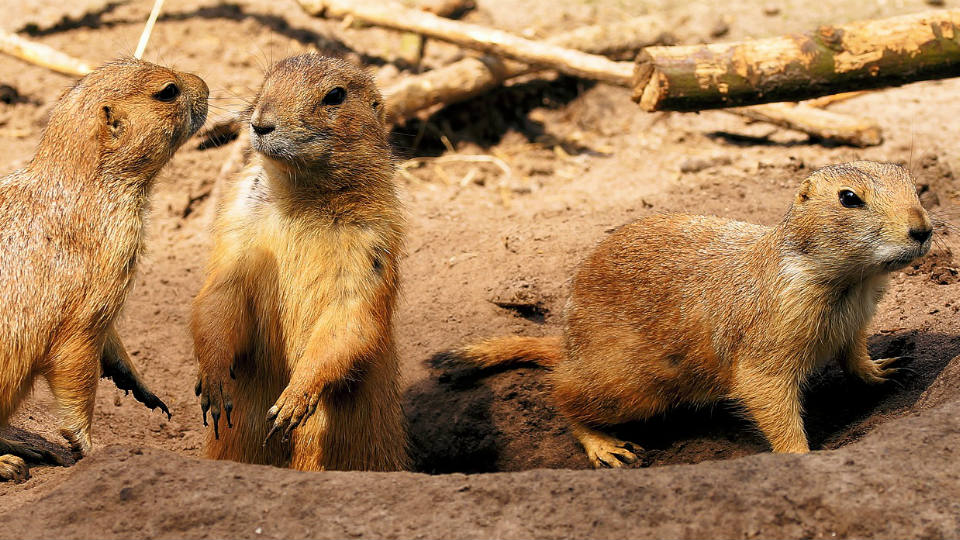
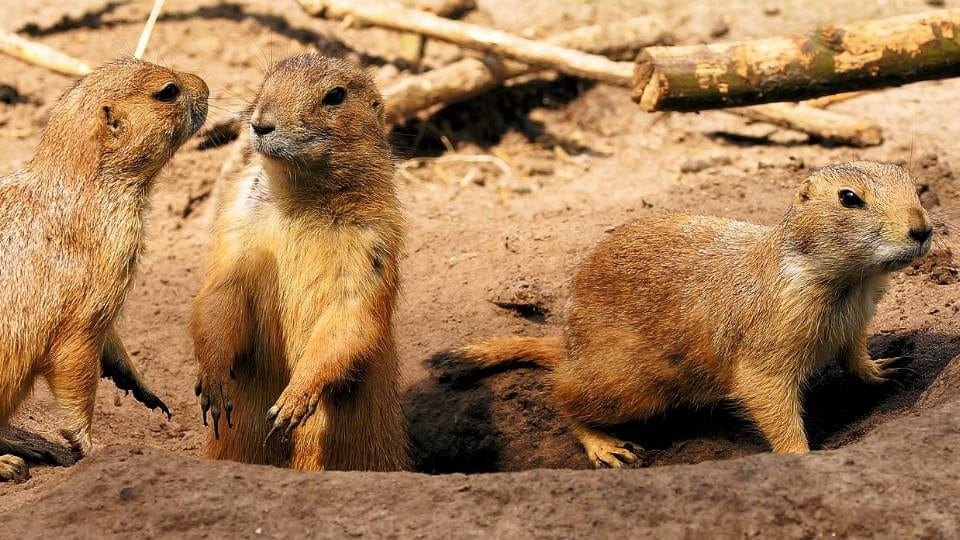
fix typos and optimize images

diff --git a/speaking/index.html b/speaking/index.html
@@ -53,7 +53,7 @@
 <h2 id="Past-Talks"><a href="#Past-Talks" class="headerlink" title="Past Talks"></a>Past Talks</h2><p>🇱🇹 <strong>DevDays Vilnius</strong> <span class="date-info">18/05/2017</span></p>
 <p>“How to Design and Build Chatbots”</p>
 <p>👉 <a href="http://devdays.lt/filip/" target="_blank">Conference site.</a> <a href="https://speakerdeck.com/filipdanic/how-to-build-and-design-chatbots-devdays-vilnius-2017" target="_blank">Slides.</a></p>
-<p>🇷🇸 <strong>Voxxed Days Belgrade 2016</strong> <span class="date-info">03/12/2016</span></p>
+<p>🇷🇸 <strong>Voxxed Days Belgrade 2016</strong> <span class="date-info">30/10/2016</span></p>
 <p>“Complex State Handling in Modern Web Apps”</p>
 <p>👉 <a href="https://belgrade.voxxeddays.com/16/talk/235/" target="_blank">Conference site.</a> <a href="https://speakerdeck.com/filipdanic/complex-state-handling-in-modern-web-apps-filip-danic-at-voxxed-days-belgrade-2016" target="_blank">Slides.</a></p>
 <h2 id="What-You-Should-Know"><a href="#What-You-Should-Know" class="headerlink" title="What You Should Know"></a>What You Should Know</h2><ol>

diff --git a/404/index.html b/404/index.html
@@ -43,7 +43,7 @@
     <div class="col-4"></div>
     <div class="col-4">
       <div class="content">
-        <p>You could let me know about this <a href="https://twitter.com/DanicFilip" target="_blank">via Twitter</a> or  <a href="mailto:filipdanic7@gmail.com">email</a> if it’s not a bother. :)</p>
+        <p>You could let me know about this <a href="https://twitter.com/DanicFilip" target="_blank">via Twitter</a> or email at <a href="mailto:filipdanic7@gmail.com">filipdanic7@gmail.com</a> if it’s not a bother. :)</p>
         <p>Side note: Why did I even add that mailto link? Does anyone click on those anyway?</p>
       </div>
     </div>

diff --git a/index.html b/index.html
@@ -33,7 +33,7 @@
       <div class="content">
         <h1>Filip Danić</h1>
         <p>
-          Hello! 👋 I’m a software engineer 💻, speaker 💬, and beer lover 🍻. Working with React, GraphQL, and experimenting with chatbots. 🤖
+          Hello! 👋 I’m a software engineer 💻, speaker 💬, and beer lover 🍻. Working with React, GraphQL, and chatbots. 🤖
         </p>
       </div>
     </div>

diff --git a/src/source/speaking/index.md b/src/source/speaking/index.md
@@ -24,7 +24,7 @@ The information on this page is for anyone who might want to invite me to their 
 
 👉 <a href="http://devdays.lt/filip/" target="_blank">Conference site.</a> <a href="https://speakerdeck.com/filipdanic/how-to-build-and-design-chatbots-devdays-vilnius-2017" target="_blank">Slides.</a>
 
-🇷🇸 **Voxxed Days Belgrade 2016** <span class="date-info">03/12/2016</span>
+🇷🇸 **Voxxed Days Belgrade 2016** <span class="date-info">30/10/2016</span>
 
 “Complex State Handling in Modern Web Apps”
 
